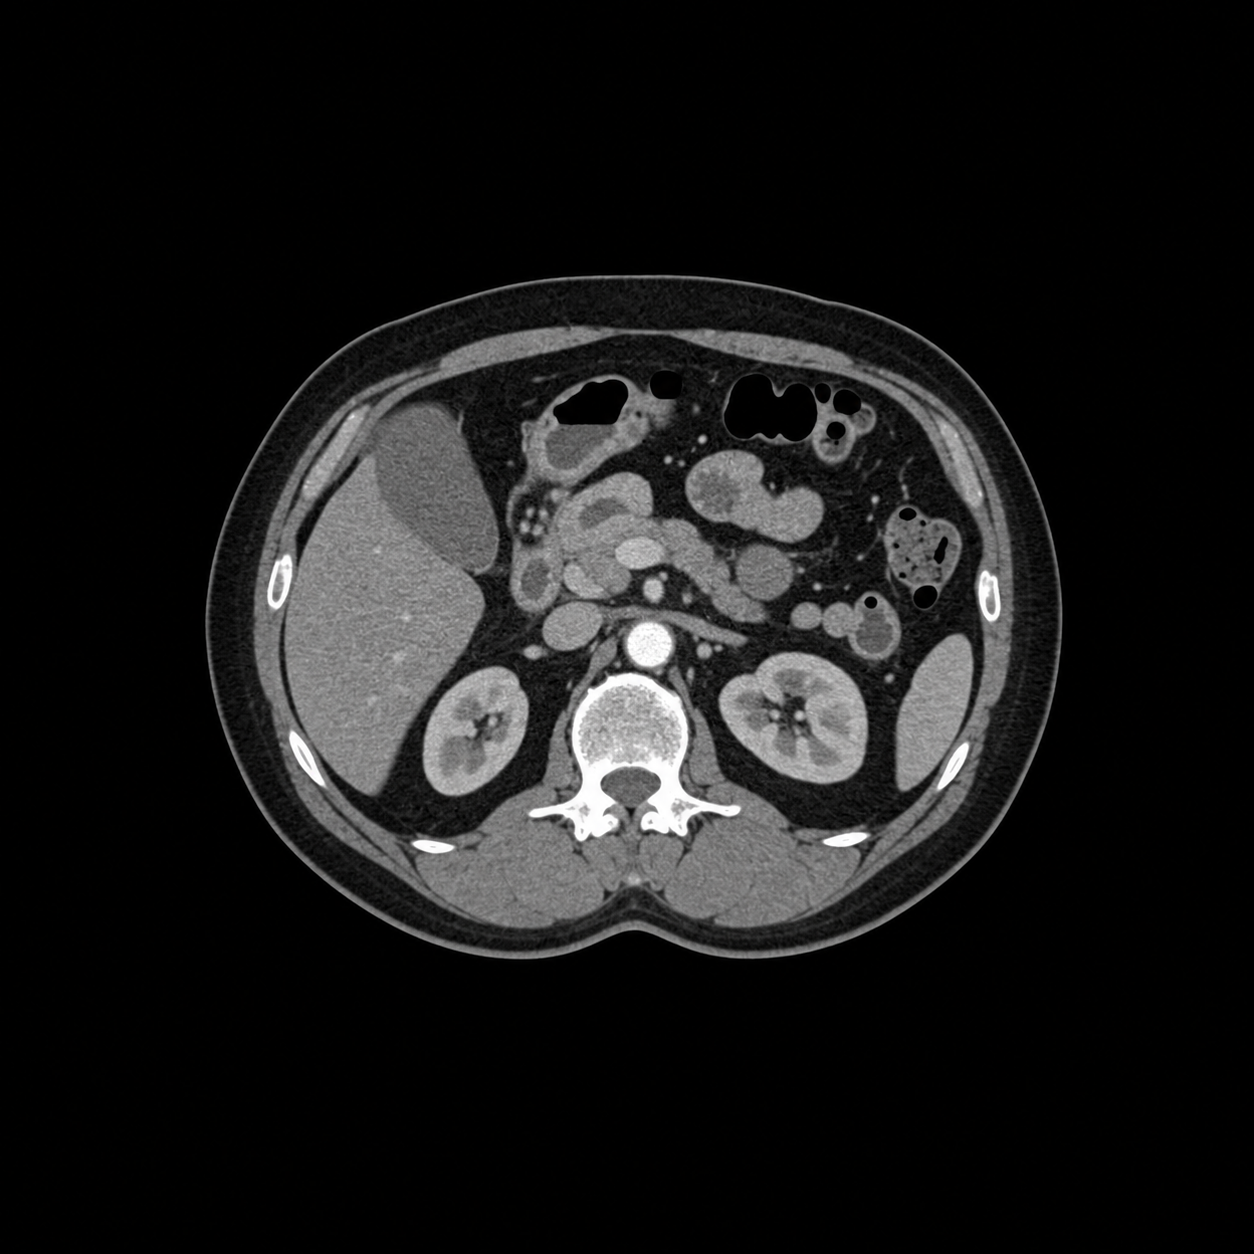
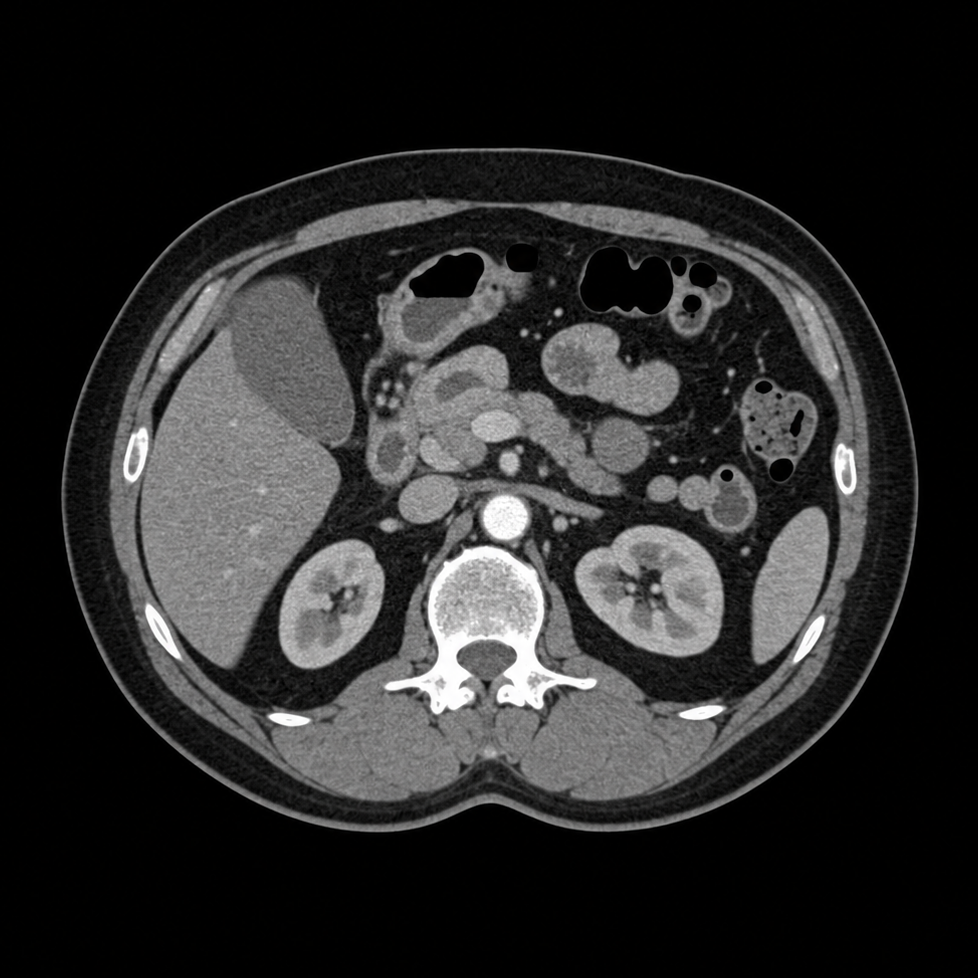
Use synthetic CT image in science hero

diff --git a/assets/css/hero-image-test.css b/assets/css/hero-image-test.css
@@ -1,16 +1,18 @@
-/* Temporary Science hero image test */
+/* Science hero imaging visual */
 
 .page-hero-image-frame {
   position: relative;
   z-index: 1;
   overflow: hidden;
+  display: flex;
+  flex-direction: column;
   min-height: clamp(18rem, 34vw, 25rem);
   margin: 0;
   border: 1px solid rgba(255, 255, 255, 0.18);
   border-radius: var(--radius-xl);
   background:
-    radial-gradient(circle at 18% 16%, rgba(255, 231, 141, 0.12), transparent 12rem),
-    var(--gradient-ink);
+    radial-gradient(circle at 50% 50%, rgba(255, 255, 255, 0.07), transparent 13rem),
+    #020202;
   color: #fff8ef;
   box-shadow: 0 24px 64px rgba(35, 24, 21, 0.22);
 }
@@ -32,26 +34,26 @@
   z-index: 1;
   pointer-events: none;
   background:
-    radial-gradient(circle at 50% 50%, transparent 0 54%, rgba(0, 0, 0, 0.30) 100%),
-    linear-gradient(180deg, transparent 62%, rgba(0, 0, 0, 0.52));
+    radial-gradient(circle at 50% 50%, transparent 0 62%, rgba(0, 0, 0, 0.36) 100%),
+    linear-gradient(180deg, transparent 68%, rgba(0, 0, 0, 0.58));
 }
 
 .page-hero-image-frame img {
   display: block;
+  flex: 1 1 auto;
   width: 100%;
   height: 100%;
-  min-height: clamp(18rem, 34vw, 25rem);
-  object-fit: cover;
-  filter: contrast(1.05) brightness(0.94);
+  min-height: clamp(15rem, 28vw, 21rem);
+  object-fit: contain;
+  object-position: center;
+  filter: contrast(1.04) brightness(0.98);
 }
 
 .page-hero-image-frame figcaption {
-  position: absolute;
-  left: var(--space-5);
-  right: var(--space-5);
-  bottom: var(--space-5);
+  position: relative;
   z-index: 3;
-  margin: 0;
+  margin: auto 0 0;
+  padding: 0 var(--space-5) var(--space-5);
   color: rgba(255, 248, 239, 0.86);
   font-size: var(--text-xs);
   font-weight: 820;
@@ -78,8 +80,6 @@
   }
 
   .page-hero-image-frame figcaption {
-    left: var(--space-4);
-    right: var(--space-4);
-    bottom: var(--space-4);
+    padding: 0 var(--space-4) var(--space-4);
   }
 }

diff --git a/pages/science/index.html b/pages/science/index.html
@@ -45,8 +45,8 @@
             </div>
           </div>
           <figure class="page-hero-image-frame">
-            <img src="/assets/img/l3-hero-test.svg" alt="Synthetic axial L3 abdominal CT-style image with organ-like structures and vertebral anatomy for design testing." />
-            <figcaption>Synthetic L3-style imaging visual · design test</figcaption>
+            <img src="/assets/img/synthetic-ct-scan-test.png" alt="Synthetic axial abdominal CT-style image used as a radiology data science visual." />
+            <figcaption>Synthetic CT imaging visual · design test</figcaption>
           </figure>
         </div>
 
